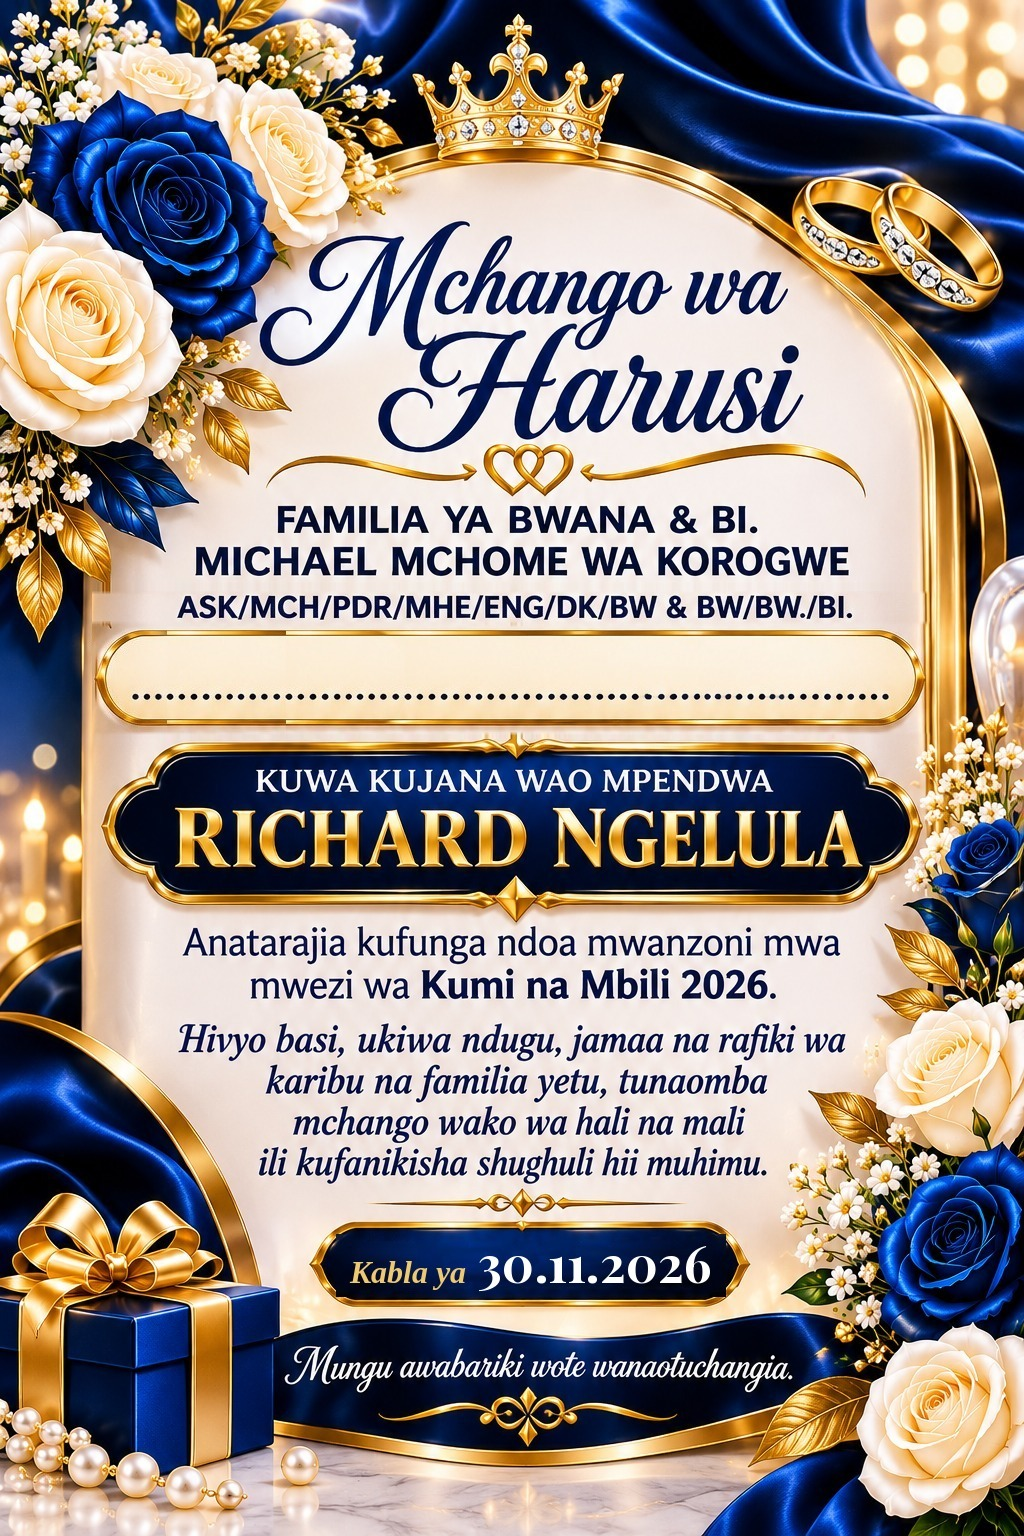
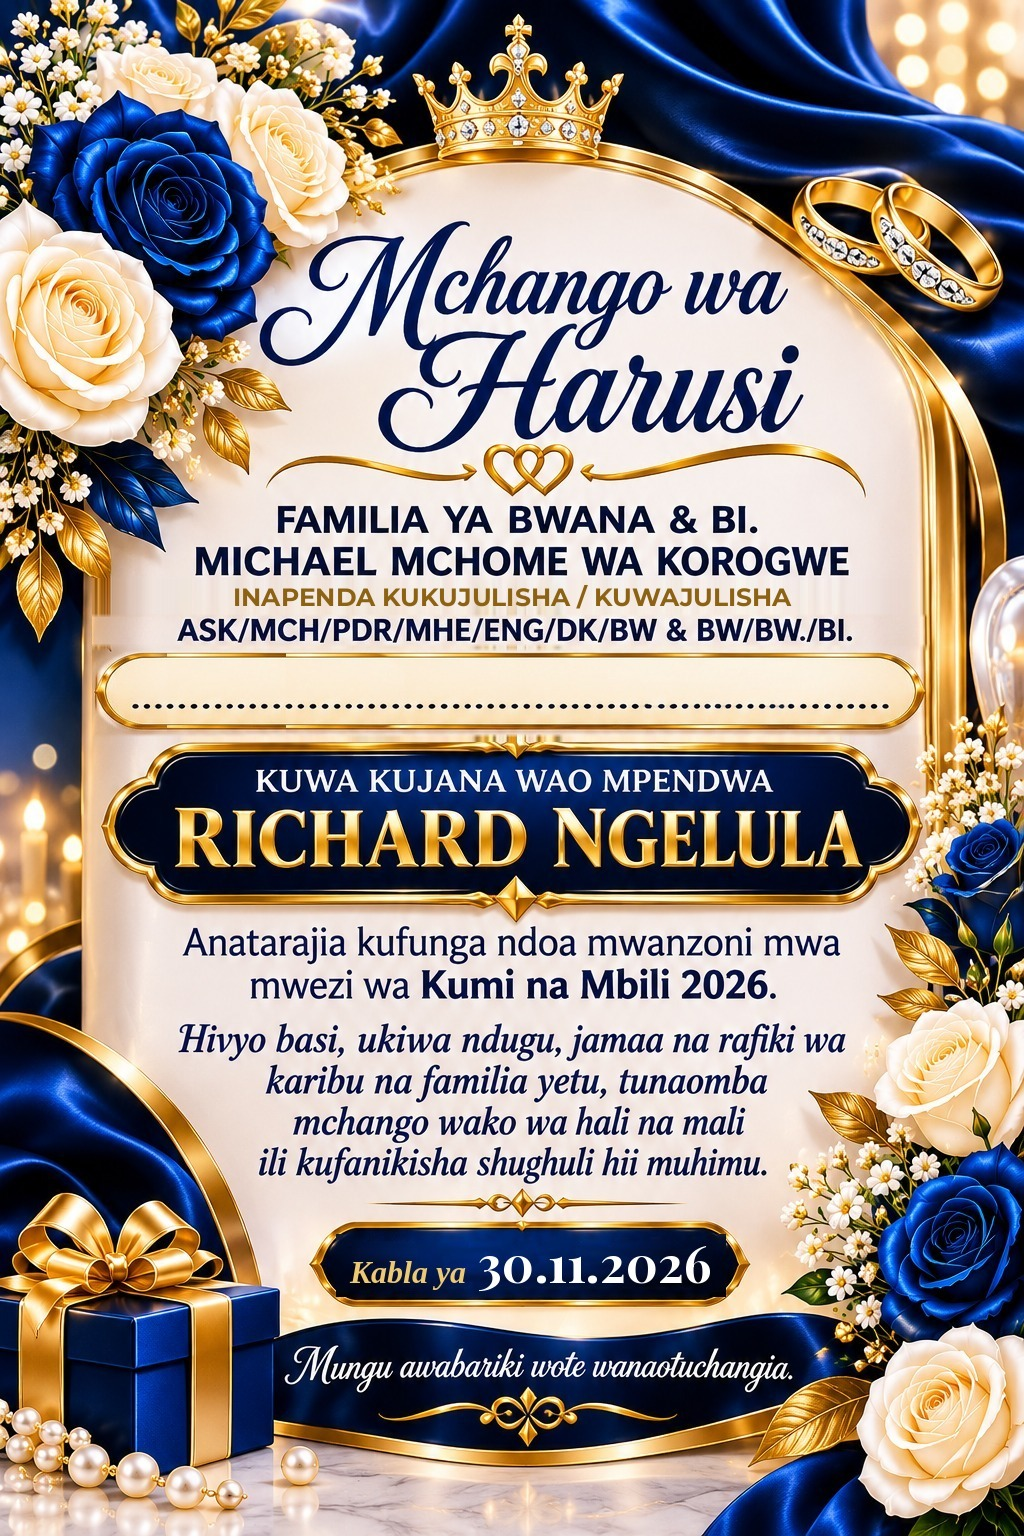
Kadi ya bluu: ongeza 'Inapenda kukujulisha / kuwajulisha' juu ya vyeo
Claude-Session: https://claude.ai/code/session_01GFUFTGEB9Fuie8fYEHjTgy

Changed region(s): [[0.0938, 0.375, 0.9062, 0.5]]

diff --git a/app.html b/app.html
@@ -119,7 +119,7 @@ input[type=range]{flex:1;accent-color:var(--gold)}
 <script>
 // Mipangilio ya kila kadi. x,y ni sehemu ya upana/urefu wa picha (0..1); y ni mstari wa chini wa herufi.
 const PRESETS = {
-  bluu: {src:"templates/bluu.jpg", x:511/1024, y:684/1536, size:56, maxW:740/1024, font:"Great Vibes", color:"#0d1b4d"},
+  bluu: {src:"templates/bluu.jpg", x:511/1024, y:697/1536, size:50, maxW:740/1024, font:"Great Vibes", color:"#0d1b4d"},
   maua: {src:"templates/maua.jpg", x:550/1046, y:517/1504, size:38, maxW:560/1046, font:"Montserrat|800", color:"#0b3d91"},
 };
 const SAMPLE = ["John Mushi","Neema Mollel","Peter Kimaro","Asha Said","Rehema Juma"].join("\n");
@@ -180,7 +180,7 @@ async function selectTpl(id){
   syncControls(); render(); save();
 }
 
-function save(){ store.set("kadi.names", $("#names").value); store.set("kadi.cfg.v3", JSON.stringify({tpl:state.tpl, bluu:state.cfg.bluu, maua:state.cfg.maua})); }
+function save(){ store.set("kadi.names", $("#names").value); store.set("kadi.cfg.v4", JSON.stringify({tpl:state.tpl, bluu:state.cfg.bluu, maua:state.cfg.maua})); }
 
 // Kuhifadhi faili: ndani ya Claude tunatumia uwezo wa "downloads"; nje tunatumia kiungo cha kawaida
 let dl;
@@ -277,7 +277,7 @@ cv.addEventListener("pointerup", ()=>{ dragging=false; cv.classList.remove("drag
 (function init(){
   state.cfg = {bluu:{...PRESETS.bluu}, maua:{...PRESETS.maua}};
   try{
-    const saved = JSON.parse(store.get("kadi.cfg.v3")||"null");
+    const saved = JSON.parse(store.get("kadi.cfg.v4")||"null");
     if(saved){ ["bluu","maua"].forEach(k=>{ if(saved[k]) Object.assign(state.cfg[k], saved[k], {src:PRESETS[k].src}); }); if(saved.tpl in PRESETS) state.tpl = saved.tpl; }
   }catch{}
   $("#names").value = store.get("kadi.names") ?? SAMPLE;

diff --git a/index.html b/index.html
@@ -126,7 +126,7 @@ input[type=range]{flex:1;accent-color:var(--gold)}
 <script>
 // Mipangilio ya kila kadi. x,y ni sehemu ya upana/urefu wa picha (0..1); y ni mstari wa chini wa herufi.
 const PRESETS = {
-  bluu: {src:"templates/bluu.jpg", x:511/1024, y:684/1536, size:56, maxW:740/1024, font:"Great Vibes", color:"#0d1b4d"},
+  bluu: {src:"templates/bluu.jpg", x:511/1024, y:697/1536, size:50, maxW:740/1024, font:"Great Vibes", color:"#0d1b4d"},
   maua: {src:"templates/maua.jpg", x:550/1046, y:517/1504, size:38, maxW:560/1046, font:"Montserrat|800", color:"#0b3d91"},
 };
 const SAMPLE = ["John Mushi","Neema Mollel","Peter Kimaro","Asha Said","Rehema Juma"].join("\n");
@@ -187,7 +187,7 @@ async function selectTpl(id){
   syncControls(); render(); save();
 }
 
-function save(){ store.set("kadi.names", $("#names").value); store.set("kadi.cfg.v3", JSON.stringify({tpl:state.tpl, bluu:state.cfg.bluu, maua:state.cfg.maua})); }
+function save(){ store.set("kadi.names", $("#names").value); store.set("kadi.cfg.v4", JSON.stringify({tpl:state.tpl, bluu:state.cfg.bluu, maua:state.cfg.maua})); }
 
 // Kuhifadhi faili: ndani ya Claude tunatumia uwezo wa "downloads"; nje tunatumia kiungo cha kawaida
 let dl;
@@ -284,7 +284,7 @@ cv.addEventListener("pointerup", ()=>{ dragging=false; cv.classList.remove("drag
 (function init(){
   state.cfg = {bluu:{...PRESETS.bluu}, maua:{...PRESETS.maua}};
   try{
-    const saved = JSON.parse(store.get("kadi.cfg.v3")||"null");
+    const saved = JSON.parse(store.get("kadi.cfg.v4")||"null");
     if(saved){ ["bluu","maua"].forEach(k=>{ if(saved[k]) Object.assign(state.cfg[k], saved[k], {src:PRESETS[k].src}); }); if(saved.tpl in PRESETS) state.tpl = saved.tpl; }
   }catch{}
   $("#names").value = store.get("kadi.names") ?? SAMPLE;
